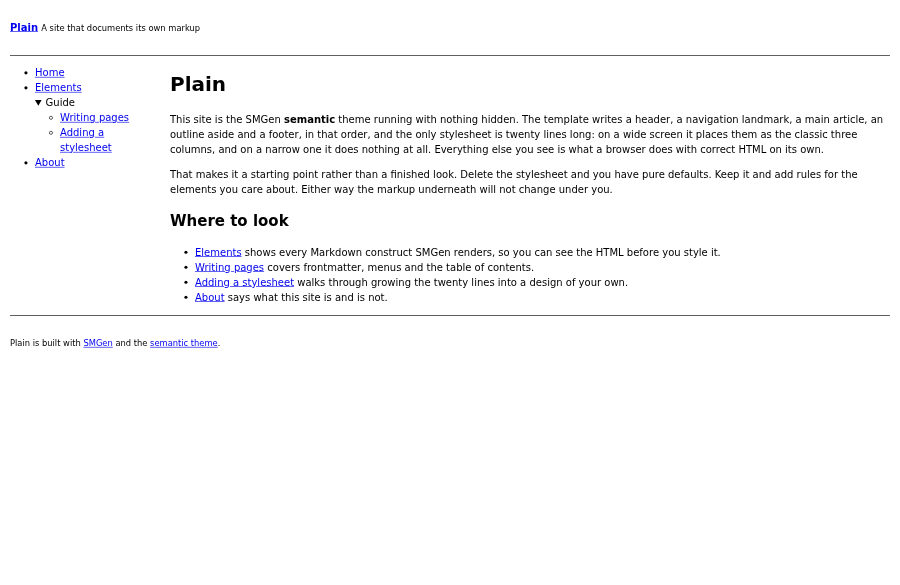
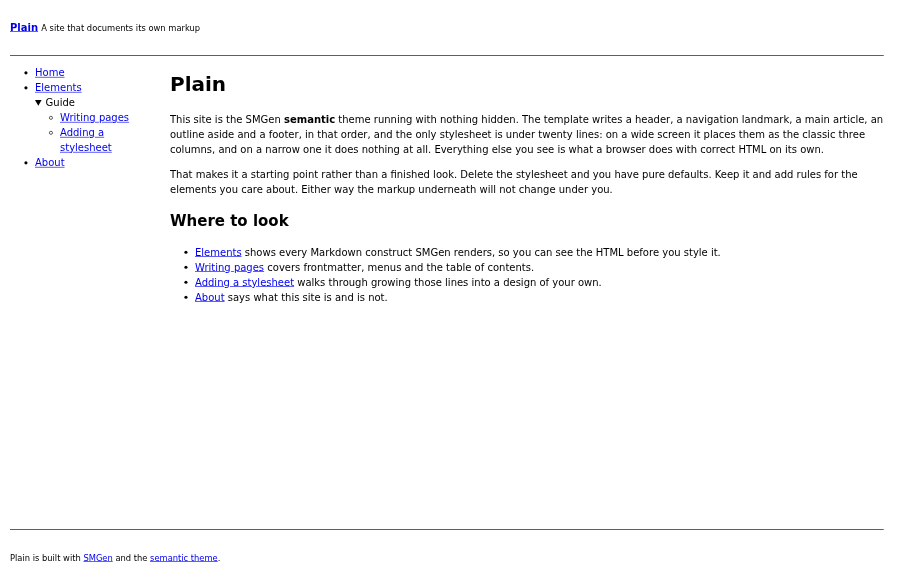
Fill the page in the semantic theme and use core's quiet scrollbar

diff --git a/themes/semantic/static/base.css b/themes/semantic/static/base.css
@@ -1,18 +1,17 @@
 /* Plain: the whole stylesheet. Delete it and the page still reads, top to bottom. */
-:root { color-scheme: light dark; }
-body { margin: 0 auto; max-width: 90rem; padding: 0 1rem; line-height: 1.5; font-family: system-ui, sans-serif; }
+:root { color-scheme: light dark; --scrollbar-thumb: color-mix(in srgb, currentColor 25%, transparent); }
+body { min-height: 100vh; margin: 0; padding: 0 1rem; line-height: 1.5; font-family: system-ui, sans-serif; }
 body > header { padding: 1rem 0; border-bottom: 1px solid; }
-body > footer { padding: 1rem 0; border-top: 1px solid; }
-main { max-width: 72ch; }
+body > footer { position: sticky; top: 100vh; padding: 1rem 0; border-top: 1px solid; }
 img, svg, video { max-width: 100%; height: auto; }
 pre { overflow: auto; }
 table { border-collapse: collapse; }
 td, th { padding: 0.25em 0.6em; border: 1px solid; }
 @media (min-width: 64rem) {
-  body { display: flex; flex-wrap: wrap; align-items: flex-start; column-gap: 2rem; }
+  body { display: flex; flex-wrap: wrap; align-content: flex-start; align-items: flex-start; column-gap: 2rem; }
   body > header, body > footer { flex: 0 0 100%; }
   body > nav { flex: 0 1 14rem; }
-  main { flex: 1 1 0; min-width: 0; max-width: none; }
+  main { flex: 1 1 0; min-width: 0; }
   body > aside { flex: 0 1 14rem; }
   body > nav, body > aside { position: sticky; top: 0; max-height: 100vh; overflow: auto; }
 }

diff --git a/themes/semantic/pages/guide/styling.md b/themes/semantic/pages/guide/styling.md
@@ -8,23 +8,22 @@ menus:
 
 # Adding a stylesheet
 
-`static/base.css` is the whole stylesheet:
+`static/base.css` is the whole stylesheet of the theme's own:
 
 ```css
-:root { color-scheme: light dark; }
-body { margin: 0 auto; max-width: 90rem; padding: 0 1rem; line-height: 1.5; font-family: system-ui, sans-serif; }
+:root { color-scheme: light dark; --scrollbar-thumb: color-mix(in srgb, currentColor 25%, transparent); }
+body { min-height: 100vh; margin: 0; padding: 0 1rem; line-height: 1.5; font-family: system-ui, sans-serif; }
 body > header { padding: 1rem 0; border-bottom: 1px solid; }
-body > footer { padding: 1rem 0; border-top: 1px solid; }
-main { max-width: 72ch; }
+body > footer { position: sticky; top: 100vh; padding: 1rem 0; border-top: 1px solid; }
 img, svg, video { max-width: 100%; height: auto; }
 pre { overflow: auto; }
 table { border-collapse: collapse; }
 td, th { padding: 0.25em 0.6em; border: 1px solid; }
 @media (min-width: 64rem) {
-  body { display: flex; flex-wrap: wrap; align-items: flex-start; column-gap: 2rem; }
+  body { display: flex; flex-wrap: wrap; align-content: flex-start; align-items: flex-start; column-gap: 2rem; }
   body > header, body > footer { flex: 0 0 100%; }
   body > nav { flex: 0 1 14rem; }
-  main { flex: 1 1 0; min-width: 0; max-width: none; }
+  main { flex: 1 1 0; min-width: 0; }
   body > aside { flex: 0 1 14rem; }
   body > nav, body > aside { position: sticky; top: 0; max-height: 100vh; overflow: auto; }
 }
@@ -33,13 +32,20 @@ td, th { padding: 0.25em 0.6em; border: 1px solid; }
 The first rule is the one that matters. `color-scheme: light dark` tells the
 browser to render its default colours in whichever scheme the visitor
 prefers, so the site is already light and dark without a single colour
-declared. The media query at the end is the layout: above 64rem the body
-becomes a flex row that wraps, the header and footer take the full width,
-the navigation and the outline take a column each, and the article takes
-whatever is left, so there is no dead space between them. The two side
-columns stick while the article scrolls. Below that width the rule does not
-apply and the landmarks stack in source order, which is also what you get
-with no stylesheet at all.
+declared. The body is at least as tall as the window and the footer is
+sticky at `top: 100vh`, which pins it to the bottom of a short page without
+a wrapper element. The media query at the end is the layout: above 64rem
+the body becomes a flex row that wraps, the header and footer take the full
+width, the navigation and the outline take a column each, and the article
+takes whatever is left, so there is no dead space between them. The two
+side columns stick while the article scrolls. Below that width the rule
+does not apply and the landmarks stack in source order, which is also what
+you get with no stylesheet at all.
+
+The only other stylesheet is SMGen core's `scrollbar.css`, listed under
+`CORE_ASSETS` and `STYLES` in `.smgen.yaml`: a thin, quiet scrollbar whose
+gutter is reserved so the page does not shift between pages that scroll
+and pages that do not. `--scrollbar-thumb` on `:root` sets its colour.
 
 ## Start from the landmarks
 

diff --git a/themes/semantic/README.md b/themes/semantic/README.md
@@ -14,9 +14,12 @@ npm create smgen-site@latest my-site -- --theme semantic
 ## What you get
 
 - `templates/page.php`: one template for every page.
-- `static/base.css`: the three columns on wide screens, colour scheme, and
-  table borders. Delete it and the landmarks stack in
-  reading order with pure browser defaults.
+- `static/base.css`: the three columns on wide screens, a footer that sits
+  at the bottom of short pages, the colour scheme, and table borders.
+  Delete it and the landmarks stack in reading order with pure browser
+  defaults.
+- SMGen core's `scrollbar.css`, a thin quiet scrollbar with a stable gutter,
+  listed in `.smgen.yaml`.
 - `pages/`: a home page, an elements page, two short guides, and an about
   page. Replace them with your own.
 - `.smgen.yaml`: the site menu is SMGen's tree renderer over `pages/`, so
